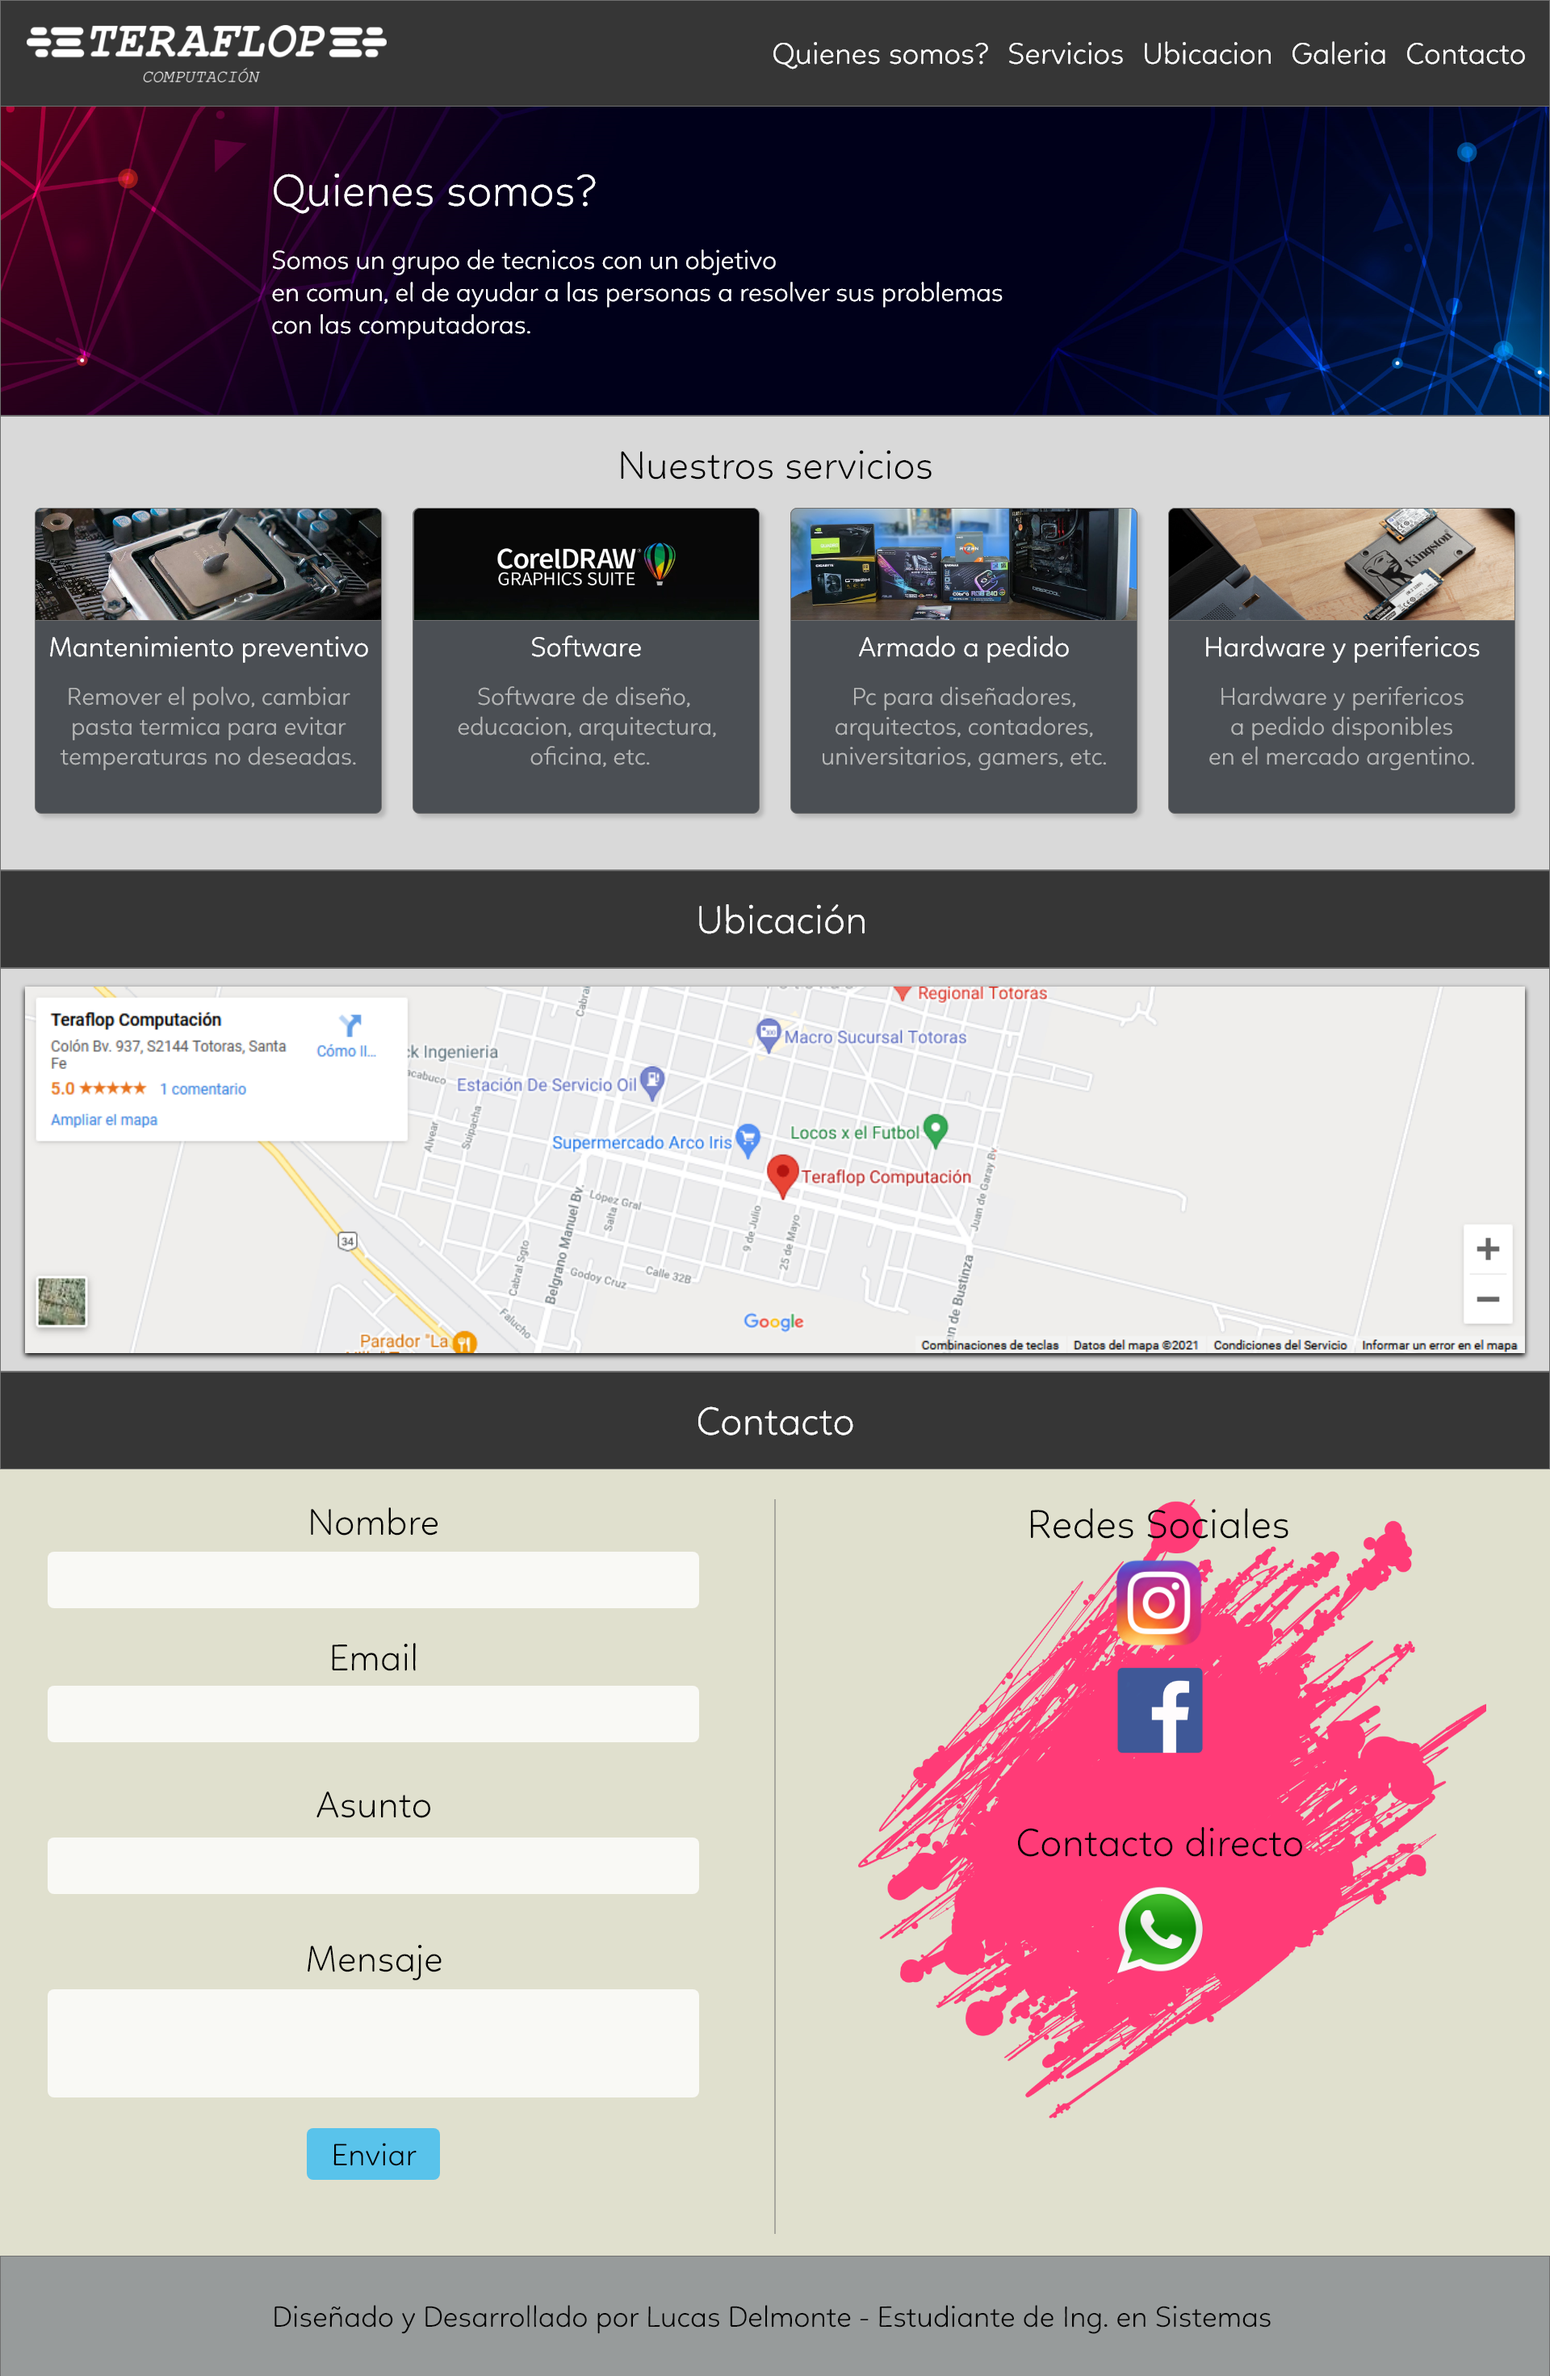
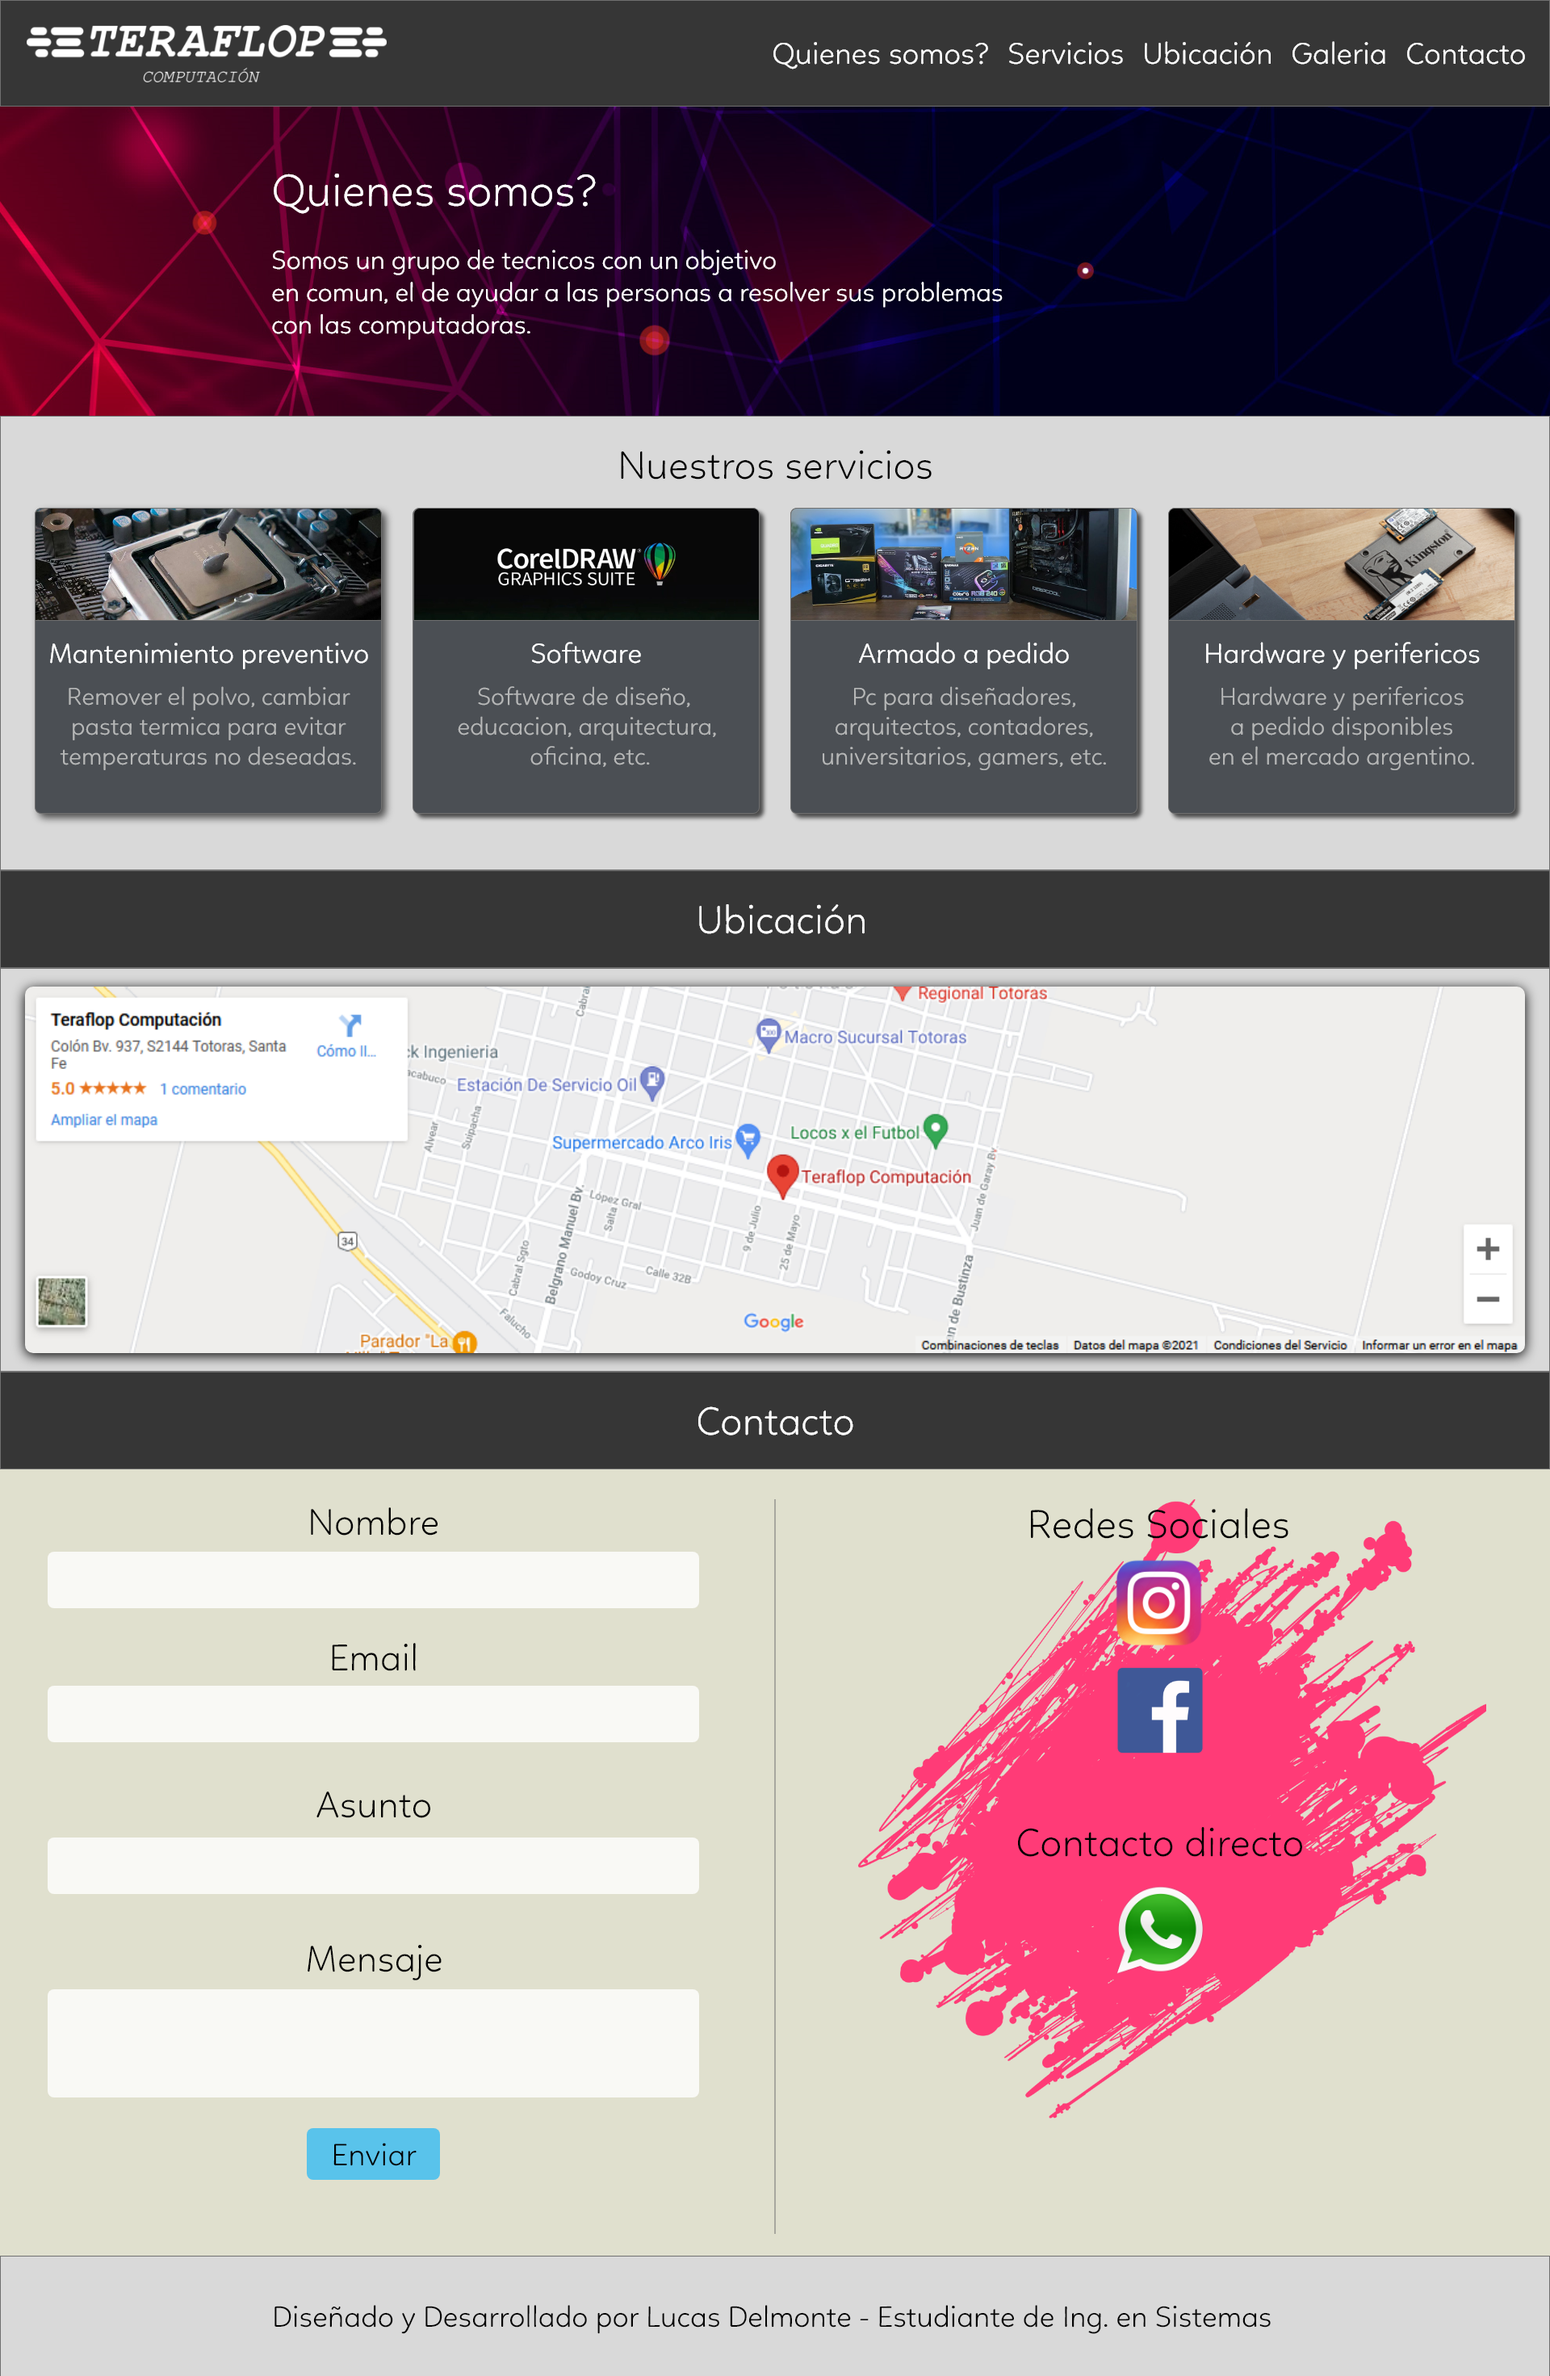
Se cargo el diseño de la galeria y creo en codigo de la misma con html y css

diff --git a/style/estilos.css b/style/estilos.css
@@ -12,12 +12,15 @@ body{
 /* Comienza el nav */
 
 nav{
-    height: 55px;
-    background-color: rgb(54, 54, 54);
     display: flex;
     flex-direction: row;
     justify-content: space-between;
+    height: 55px;
     padding: 10px 12px 10px 15px;
+    background-color: rgb(54, 54, 54);
+    -webkit-box-shadow: 0 4px 4px -2px #ffffff;
+    -moz-box-shadow: 0 4px 4px -2px #ffffff;
+    box-shadow: 0 4px 4px -2px #ffffff;
 }
 
 nav a{
@@ -62,14 +65,16 @@ nav .enlaces{
 /* Comienza el header */
 
 header{
-    width: 100%;
-    height: 390px;
-    background: url('../img/FondoHeader.jpg');
-    background-repeat: no-repeat;
     display: flex;
     flex-direction: column;
     color: white;
+    width: 100%;
+    height: 360px;
+    background: url('../img/FondoHeader.jpg');
+    background-position-y: top;
+    background-repeat: no-repeat;
 }
+    
 
 header h1{
     width: 50%;
@@ -119,14 +124,14 @@ header p{
 /* Comienza el section de servicios */
 
 .servicios{
-    width: 100%;
-    height:100%;
-    margin-bottom: 20px;
     display: flex;
     flex-direction: row;
     flex-wrap: wrap;
     justify-content: space-around;
     text-align: center;
+    width: 100%;
+    height:100%;
+    margin-bottom: 20px;
     background-size: 100%;
     background-repeat: no-repeat;
 }
@@ -135,7 +140,7 @@ header p{
     margin-left: auto;
     margin-right: auto;
     margin-top: 25px;
-    margin-bottom: 15px;
+    margin-bottom: 10px;
     font-size: 35px;
 }
 
@@ -356,10 +361,11 @@ input[type=submit]:hover{
 /* Comienza el footer */
 
 footer{
-    border-top: 1px groove rgb(128, 128, 128);
     text-align: center;
     height: 100%;
     padding: 10px;
+    border-top: 1px groove rgb(128, 128, 128);
+    background-color: rgb(217, 217, 217);
 }
 
 footer h4{
@@ -373,3 +379,107 @@ footer h4{
 }
 
 /* Finaliza el footer */
+
+/* Comienza el contenedor de la Galeria */
+
+.contenedor-galeria{
+    width: 100%;
+    height: 100%;
+    background-image: url('../img/FondoGaleria.png');
+}
+
+/* Finaliza el contenedor de la Galeria */
+
+/* Comienza el section de Galeria */
+
+.galeria{
+    width: 100%;
+}
+
+.armado{
+    display: flex;
+    flex-direction: row; 
+    justify-content: space-around;
+    flex-wrap: wrap;
+    width: 100%;
+    height: 100%;
+    padding: 10px 0px 5px 0px;
+    margin-top: 6px;
+}
+
+.mantenimiento{
+    display: flex;
+    flex-direction: row;
+    justify-content: space-between;
+    flex-wrap: wrap;
+    width: 100%;   
+    height: 100%; 
+}
+
+.grupo-armado1 img,
+.grupo-armado2 img,
+.grupo-armado3 img{
+    width: 500px;
+    height: 300px;
+    padding: 5px;
+    border-radius: 5px;
+    background-color: rgba(58, 68, 84, 0.900);
+    box-shadow: 5px 5px 5px 3px rgba(0, 0, 0, 0.479);
+}
+
+.acomodar{
+    display: flex;
+    flex-direction: row;
+    justify-content: space-around;
+    flex-wrap: wrap;
+    width: 100%;
+}
+
+.grupo-mantenimiento1,
+.grupo-mantenimiento2,
+.grupo-mantenimiento3,
+.grupo-mantenimiento4{
+    padding: 5px;
+}
+
+.grupo-mantenimiento1 img,
+.grupo-mantenimiento2 img,
+.grupo-mantenimiento3 img,
+.grupo-mantenimiento4 img{
+    width: 300px;
+    height: 400px;
+    padding: 5px;
+    margin: 0px 1px 0px 1px;
+    border-radius: 5px;
+    background-color: rgba(58, 68, 84, 0.900);
+    box-shadow: 5px 5px 5px 3px rgba(0, 0, 0, 0.479);
+    
+}
+
+
+.grupo-mantenimiento5{
+    display: flex;
+    flex-direction: row;
+    justify-content: space-around;
+    flex-wrap: wrap;
+    width: 100%;
+    padding: 5px;
+}
+
+.grupo-mantenimiento5 img{
+    width: 300px;
+    height: 400px;  
+    padding: 5px;
+    margin: 0px 3px 10px 3px;
+    border-radius: 5px; 
+    background-color: rgba(58, 68, 84, 0.900);
+    box-shadow: 5px 5px 5px 3px rgba(0, 0, 0, 0.479);
+
+}
+
+@media screen and (max-width: 620px){   
+    .contenedor-galeria{
+        text-align: center;
+    }
+}
+/* Finaliza el section de Galeria */

diff --git a/galeria.html b/galeria.html
@@ -5,20 +5,62 @@
     <meta http-equiv="X-UA-Compatible" content="IE=edge">
     <meta name="viewport" content="width=device-width, initial-scale=1.0">
     <link rel="stylesheet" href="style/normalize.css">
+    <link rel="stylesheet" href="https://cdn.jsdelivr.net/npm/glider-js@1.7.3/glider.min.css">
     <link rel="stylesheet" href="style/estilos.css">
-    <link rel="stylesheet" href="font/linotte-light-maisfontes.2d48/linotte-light.otf">
     <title>Teraflop Computación</title>
 </head>
 <body>
-    <div class="contenedor">
+    <div class="contenedor-galeria">
         <nav>
             <img src="img/TERAFLOP LUKE 2 png...png" alt="Logo">
             <div class="enlaces">
-                <a href="#armado">Armado</a>
-                <a href="#mantenimiento">Mantenimiento</a>
                 <a href="index.html">Volver</a>
             </div>
         </nav>
+		<section class="galeria">
+			<div class="armado">
+				<div class="grupo-armado1">
+					<img src="img/Galeria/Armado0.jpg" alt="Armado">
+				</div>
+				<div class="grupo-armado2">
+					<img src="img/Galeria/Armado1.jpg" alt="Armado">
+				</div>
+				<div class="grupo-armado3">
+					<img src="img/Galeria/Armado2.jpg" alt="Armado">
+				</div>
+			</div>
+			<div class="mantenimiento">
+				<div class="acomodar">
+				<div class="grupo-mantenimiento1">
+					<img src="img/Galeria/Mantenimiento0.jpg" alt="Mantenimiento">
+					<img src="img/Galeria/Mantenimiento1.jpg" alt="Mantenimiento">
+				</div>
+				<div class="grupo-mantenimiento2">
+					<img src="img/Galeria/Mantenimiento2.jpg" alt="Mantenimiento">
+					<img src="img/Galeria/Mantenimiento3.jpg" alt="Mantenimiento">
+				</div>
+	 			<div class="grupo-mantenimiento3">
+					<img src="img/Galeria/Mantenimiento4.jpg" alt="Mantenimiento">
+					<img src="img/Galeria/Mantenimiento5.jpg" alt="Mantenimiento">
+				</div>
+				<div class="grupo-mantenimiento4">
+					<img src="img/Galeria/Mantenimiento6.jpg" alt="Mantenimiento">
+					<img src="img/Galeria/Mantenimiento7.jpg" alt="Mantenimiento">
+				</div>
+				</div>
+				<div class="grupo-mantenimiento5">
+					<img src="img/Galeria/Mantenimiento8.jpg" alt="Mantenimiento">
+					<img src="img/Galeria/Mantenimiento9.jpg" alt="Mantenimiento">
+					<img src="img/Galeria/Mantenimiento10.jpg" alt="Mantenimiento">
+					<img src="img/Galeria/Mantenimiento11.jpg" alt="Mantenimiento">
+					<img src="img/Galeria/Mantenimiento12.jpg" alt="Mantenimiento">
+					<img src="img/Galeria/Mantenimiento13.jpg" alt="Mantenimiento">
+				</div>
+			</div>
+		</section>
+		<footer>
+            <h4>Diseñado y Desarrollado por Lucas Delmonte - Estudiante de Ing. en Sistemas</h4>
+        </footer>
     </div>  
 </body>
 </html>

diff --git a/README.md b/README.md
@@ -1,4 +1,4 @@
-# Landing Page de Teraflop Computacion
+![Logo Teraflop 2 png](https://user-images.githubusercontent.com/82593976/121927407-61939000-cd15-11eb-94fb-30440254c122.png)
 
 ### **Introducción**
 
@@ -7,14 +7,19 @@ Dicha página estará basada en un prototipo ubicado en la carpeta 'prototype' y
 Si bien el objetivo es la creación de la página no hay que olvidarse de que todo proyecto ayuda al manejo de lenguajes y todo se suma a los conocimientos.
 
 
-#### Conceptos a implementar:
+### Conceptos a implementar
 
-En la primera etapa del proyecto se utilizarán HTML y CSS como principales lenguajes de diseño y priorizando el uso correcto de flexbox.
-
-![Diseño final de la Landing page](https://raw.githubusercontent.com/lucasdelmonte/LandingPage_TeraflopComputacion/blob/master/prototype/Landing%20Page%20-%20Teraflop%20Computacion_V1.4.png)
-
-Enlace directo a [github pages](https://lucasdelmonte.github.io/LandingPage_TeraflopComputacion/)
+En este proyecto se utilizarán HTML y CSS como principales lenguajes de diseño y priorizando el uso correcto de flexbox, tambien usaremos un poco de javascript para el formulario de contacto y animaciones.
 
 
-Diseñado y creado por Lucas Delmonte - Estudiante de Ing. en Sistemas
+### Diseño final
+
+![Landing Page - Teraflop Computacion_V1 4](https://user-images.githubusercontent.com/82593976/122244403-3dfa5200-ce9b-11eb-8365-7135405c2bd8.png)
+
+Nota: puede visualizar los cambios en el diseño desde la carpeta prototype.
+
+Enlace directo a [github pages](https://lucasdelmonte.github.io/LandingPage_TeraflopComputacion/) para visualizar la página.
+
+<p align="center">Diseñado y Desarrollado por Lucas Delmonte - Estudiante de Ing. en Sistemas</p>
+
 
